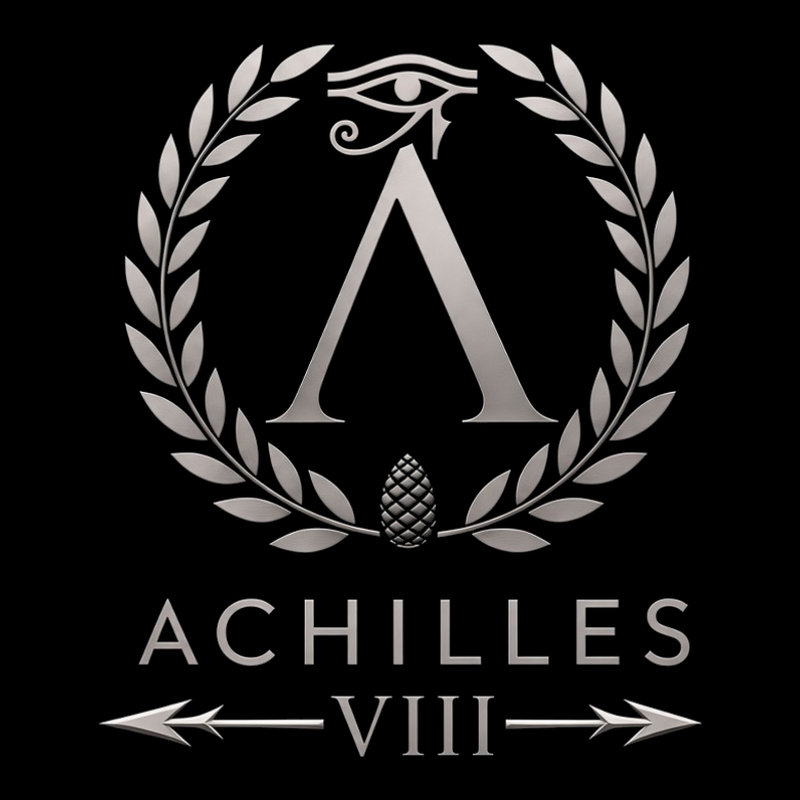
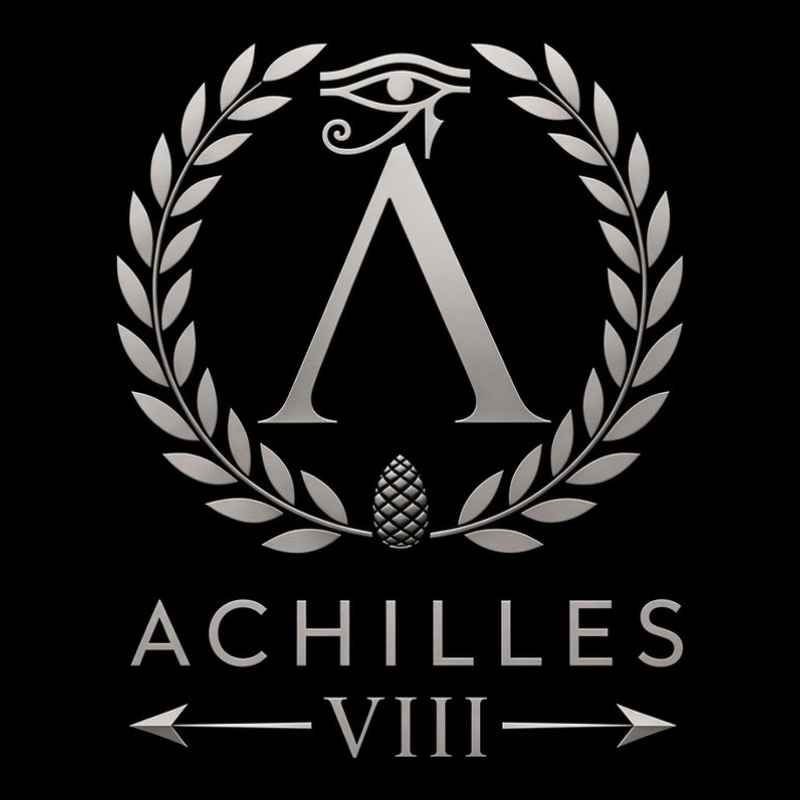
Use Achilles crest as full-bleed homepage hero
Replace the gear collage with the provided metallic crest mark as the main hero background.

Changed region(s): [[0.125, 0.0312, 0.875, 0.6875], [0.125, 0.75, 0.875, 0.9688], [0.625, 0.75, 0.875, 0.8438]]

diff --git a/styles.css b/styles.css
@@ -249,14 +249,13 @@ select {
   display: none !important;
 }
 
-/* Hero — studio luxury */
+/* Hero — crest full-bleed */
 .hero {
   position: relative;
   min-height: 100svh;
   display: grid;
   align-items: end;
-  background:
-    radial-gradient(ellipse 90% 70% at 50% 38%, #efefef 0%, #cfcfcf 42%, #9f9f9f 78%, #7a7a7a 100%);
+  background: #000;
   overflow: hidden;
   color: var(--white);
 }
@@ -266,82 +265,23 @@ select {
   inset: 0;
 }
 
-.studio-glow {
+.hero-bg {
   position: absolute;
-  left: 50%;
-  top: 34%;
-  width: min(70vw, 720px);
-  height: min(70vw, 720px);
-  transform: translate(-50%, -50%);
-  background: radial-gradient(circle, rgba(255, 255, 255, 0.75), transparent 68%);
-  filter: blur(8px);
-  animation: glowPulse 7s ease-in-out infinite;
-}
-
-.gear-studio {
-  position: absolute;
-  left: 50%;
-  top: 42%;
-  width: min(92vw, 980px);
-  height: min(58vh, 560px);
-  transform: translate(-50%, -54%);
-  filter: drop-shadow(0 40px 60px rgba(0, 0, 0, 0.28));
-}
-
-.plate {
-  position: absolute;
-  margin: 0;
-  overflow: hidden;
-  border-radius: 0.65rem;
-  background: #111;
-  box-shadow:
-    0 18px 40px rgba(0, 0, 0, 0.28),
-    0 2px 0 rgba(255, 255, 255, 0.18) inset;
-  opacity: 0;
-  animation: plateIn 1.1s var(--ease) forwards;
-}
-
-.plate img {
+  inset: 0;
   width: 100%;
   height: 100%;
   object-fit: cover;
-  transform: scale(1.08);
-  animation: kenSlow 18s ease-in-out infinite alternate;
-}
-
-.p1 { width: 38%; height: 62%; left: 4%; top: 8%; animation-delay: 0.05s; z-index: 3; }
-.p2 { width: 34%; height: 54%; left: 34%; top: 0%; animation-delay: 0.15s; z-index: 4; }
-.p3 { width: 30%; height: 48%; right: 4%; top: 10%; animation-delay: 0.25s; z-index: 3; }
-.p4 { width: 24%; height: 40%; left: 22%; bottom: 4%; animation-delay: 0.35s; z-index: 5; }
-.p5 { width: 22%; height: 36%; left: 48%; bottom: 8%; animation-delay: 0.45s; z-index: 5; }
-.p6 { width: 18%; height: 42%; right: 18%; bottom: 2%; animation-delay: 0.55s; z-index: 4; }
-.p7 { width: 16%; height: 28%; right: 2%; bottom: 18%; animation-delay: 0.65s; z-index: 6; }
-
-.p1 img { animation-delay: 0s; }
-.p2 img { animation-delay: -3s; }
-.p3 img { animation-delay: -6s; }
-.p4 img { animation-delay: -2s; }
-.p5 img { animation-delay: -5s; }
-.p6 img { animation-delay: -8s; }
-.p7 img { animation-delay: -1s; }
-
-.studio-floor {
-  position: absolute;
-  left: 8%;
-  right: 8%;
-  bottom: -18%;
-  height: 42%;
-  background: linear-gradient(180deg, transparent, rgba(30, 30, 30, 0.16) 35%, rgba(20, 20, 20, 0.34));
-  filter: blur(14px);
-  pointer-events: none;
-  border-radius: 50%;
+  object-position: center 42%;
+  transform: scale(1.06);
+  animation: kenCrest 22s ease-in-out infinite alternate;
 }
 
 .hero-veil {
   position: absolute;
   inset: 0;
   background:
-    linear-gradient(180deg, rgba(0, 0, 0, 0.38) 0%, transparent 26%, transparent 46%, rgba(0, 0, 0, 0.78) 100%);
+    linear-gradient(180deg, rgba(0, 0, 0, 0.22) 0%, transparent 28%, transparent 55%, rgba(0, 0, 0, 0.72) 100%);
+  pointer-events: none;
 }
 
 .hero-content {
@@ -351,49 +291,27 @@ select {
   width: 100%;
   margin: 0 auto;
   padding: 0 1.25rem 5.5rem;
-  animation: riseIn 1s var(--ease) 0.35s both;
+  animation: riseIn 1s var(--ease) 0.25s both;
 }
 
-.hero-crest {
-  width: 4.75rem;
-  height: 4.75rem;
-  object-fit: cover;
-  border-radius: 50%;
-  margin-bottom: 0.85rem;
-  box-shadow: 0 10px 36px rgba(0, 0, 0, 0.4);
-  animation: crestFloat 5.5s ease-in-out infinite;
-}
-
-.hero-kicker {
-  margin: 0 0 0.35rem;
-  display: flex;
-  align-items: center;
-  gap: 0.45rem;
-  letter-spacing: 0.18em;
-  text-transform: uppercase;
-  font-size: 0.78rem;
-  color: var(--chrome);
-}
-
-.viii-inline {
-  font-family: var(--font-display);
-  letter-spacing: 0.22em;
-}
-
-.hero h1 {
-  margin: 0;
-  font-family: var(--font-ui);
-  font-weight: 600;
-  font-size: clamp(2.6rem, 8vw, 4.4rem);
-  letter-spacing: -0.03em;
-  line-height: 0.95;
+.sr-only {
+  position: absolute;
+  width: 1px;
+  height: 1px;
+  padding: 0;
+  margin: -1px;
+  overflow: hidden;
+  clip: rect(0, 0, 0, 0);
+  white-space: nowrap;
+  border: 0;
 }
 
 .hero-lede {
-  margin: 0.7rem 0 0;
+  margin: 0;
   max-width: 28ch;
-  color: rgba(255, 255, 255, 0.78);
-  font-weight: 400;
+  color: rgba(255, 255, 255, 0.82);
+  font-weight: 500;
+  letter-spacing: 0.04em;
 }
 
 .pill-cta {
@@ -1142,24 +1060,14 @@ select {
   to { opacity: 1; transform: translateY(0); }
 }
 
-@keyframes plateIn {
-  from { opacity: 0; transform: translateY(28px) scale(0.96); }
-  to { opacity: 1; transform: translateY(0) scale(1); }
-}
-
 @keyframes kenSlow {
   from { transform: scale(1.08) translate3d(0, 0, 0); }
   to { transform: scale(1.16) translate3d(-1.5%, -1%, 0); }
 }
 
-@keyframes glowPulse {
-  0%, 100% { opacity: 0.7; transform: translate(-50%, -50%) scale(1); }
-  50% { opacity: 1; transform: translate(-50%, -50%) scale(1.06); }
-}
-
-@keyframes crestFloat {
-  0%, 100% { transform: translateY(0); }
-  50% { transform: translateY(-5px); }
+@keyframes kenCrest {
+  from { transform: scale(1.04) translate3d(0, 0, 0); }
+  to { transform: scale(1.1) translate3d(0, -1.2%, 0); }
 }
 
 @keyframes bounce {
@@ -1176,21 +1084,6 @@ select {
     grid-template-columns: 1fr;
   }
 
-  .gear-studio {
-    width: min(96vw, 720px);
-    height: min(48vh, 420px);
-    top: 38%;
-  }
-
-  .p3, .p7 {
-    display: none;
-  }
-
-  .p1 { width: 46%; height: 64%; left: 2%; top: 6%; }
-  .p2 { width: 44%; height: 58%; left: 42%; top: 0%; }
-  .p4 { width: 30%; height: 42%; left: 14%; bottom: 2%; }
-  .p5 { width: 28%; height: 38%; left: 46%; bottom: 6%; }
-  .p6 { width: 24%; height: 40%; right: 4%; bottom: 4%; }
 }
 
 @media (max-width: 640px) {
@@ -1202,13 +1095,8 @@ select {
     padding-bottom: 4.5rem;
   }
 
-  .gear-studio {
-    height: min(42vh, 360px);
-    top: 34%;
-  }
-
-  .p6 {
-    display: none;
+  .hero-bg {
+    object-position: center 38%;
   }
 
   .symbol-row {

diff --git a/index.html b/index.html
@@ -67,25 +67,20 @@
       <section class="view view-home is-active" id="view-home" data-view="home">
         <section class="hero" aria-label="ACHILLES Collection VIII">
           <div class="hero-stage" aria-hidden="true">
-            <div class="studio-glow"></div>
-            <div class="gear-studio">
-              <figure class="plate p1"><img src="/images/hero/board-02.jpg" alt="" /></figure>
-              <figure class="plate p2"><img src="/images/hero/ski-01.jpg" alt="" /></figure>
-              <figure class="plate p3"><img src="/images/hero/wakeboard-01.jpg" alt="" /></figure>
-              <figure class="plate p4"><img src="/images/hero/short-03.jpg" alt="" /></figure>
-              <figure class="plate p5"><img src="/images/hero/gear-01.jpg" alt="" /></figure>
-              <figure class="plate p6"><img src="/images/hero/sleeve-01.jpg" alt="" /></figure>
-              <figure class="plate p7"><img src="/images/hero/headband-02.jpg" alt="" /></figure>
-              <div class="studio-floor"></div>
-            </div>
+            <img
+              class="hero-bg"
+              src="/images/brand/achilles-hero-crest.jpg"
+              alt=""
+              width="1600"
+              height="1200"
+              fetchpriority="high"
+            />
             <div class="hero-veil"></div>
           </div>
 
           <div class="hero-content">
-            <img class="hero-crest" src="/images/brand/achilles-crest.png" alt="ACHILLES" width="120" height="120" />
-            <p class="hero-kicker">Collection <span class="viii-inline">VIII</span></p>
-            <h1>ACHILLES.</h1>
-            <p class="hero-lede">Snow. Skate. Water. Clothing. One house of gear.</p>
+            <h1 class="sr-only">ACHILLES</h1>
+            <p class="hero-lede">Snow. Skate. Water. Clothing.</p>
             <a class="pill-cta" href="#models" data-nav="models">Discover more</a>
           </div>
           <a class="scroll-cue" href="#models" data-nav="models" aria-label="Scroll to models">

diff --git a/script.js b/script.js
@@ -339,10 +339,10 @@
   window.addEventListener("hashchange", applyRoute);
   window.addEventListener("scroll", () => {
     header?.classList.toggle("is-solid", window.scrollY > 24);
-    const studio = document.querySelector(".gear-studio");
-    if (studio && !homeView.hidden) {
-      const y = Math.min(40, window.scrollY * 0.08);
-      studio.style.transform = `translate(-50%, calc(-54% + ${y}px))`;
+    const bg = document.querySelector(".hero-bg");
+    if (bg && !homeView.hidden) {
+      const y = Math.min(28, window.scrollY * 0.06);
+      bg.style.translate = `0 ${y}px`;
     }
   });
 
